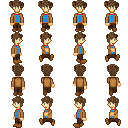
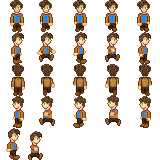
updated doctor sprite - need to finish left walk

diff --git a/Sprites/DoctorSprite.js b/Sprites/DoctorSprite.js
@@ -43,8 +43,9 @@ class DoctorSprite {
       //   [0, 1],
       // ],
       "walk-right": [
-        [1, 1],
-        [2, 1],
+        [4, 1],
+        [3, 1],
+        [0, 1],
         [2, 1],
         [1, 1],
       ],
@@ -57,7 +58,7 @@ class DoctorSprite {
       "walk-up": [
         [2, 2],
         [1, 2],
-        [2, 2],
+        [3, 2],
         [0, 2],
       ],
       // "walk-left": [
